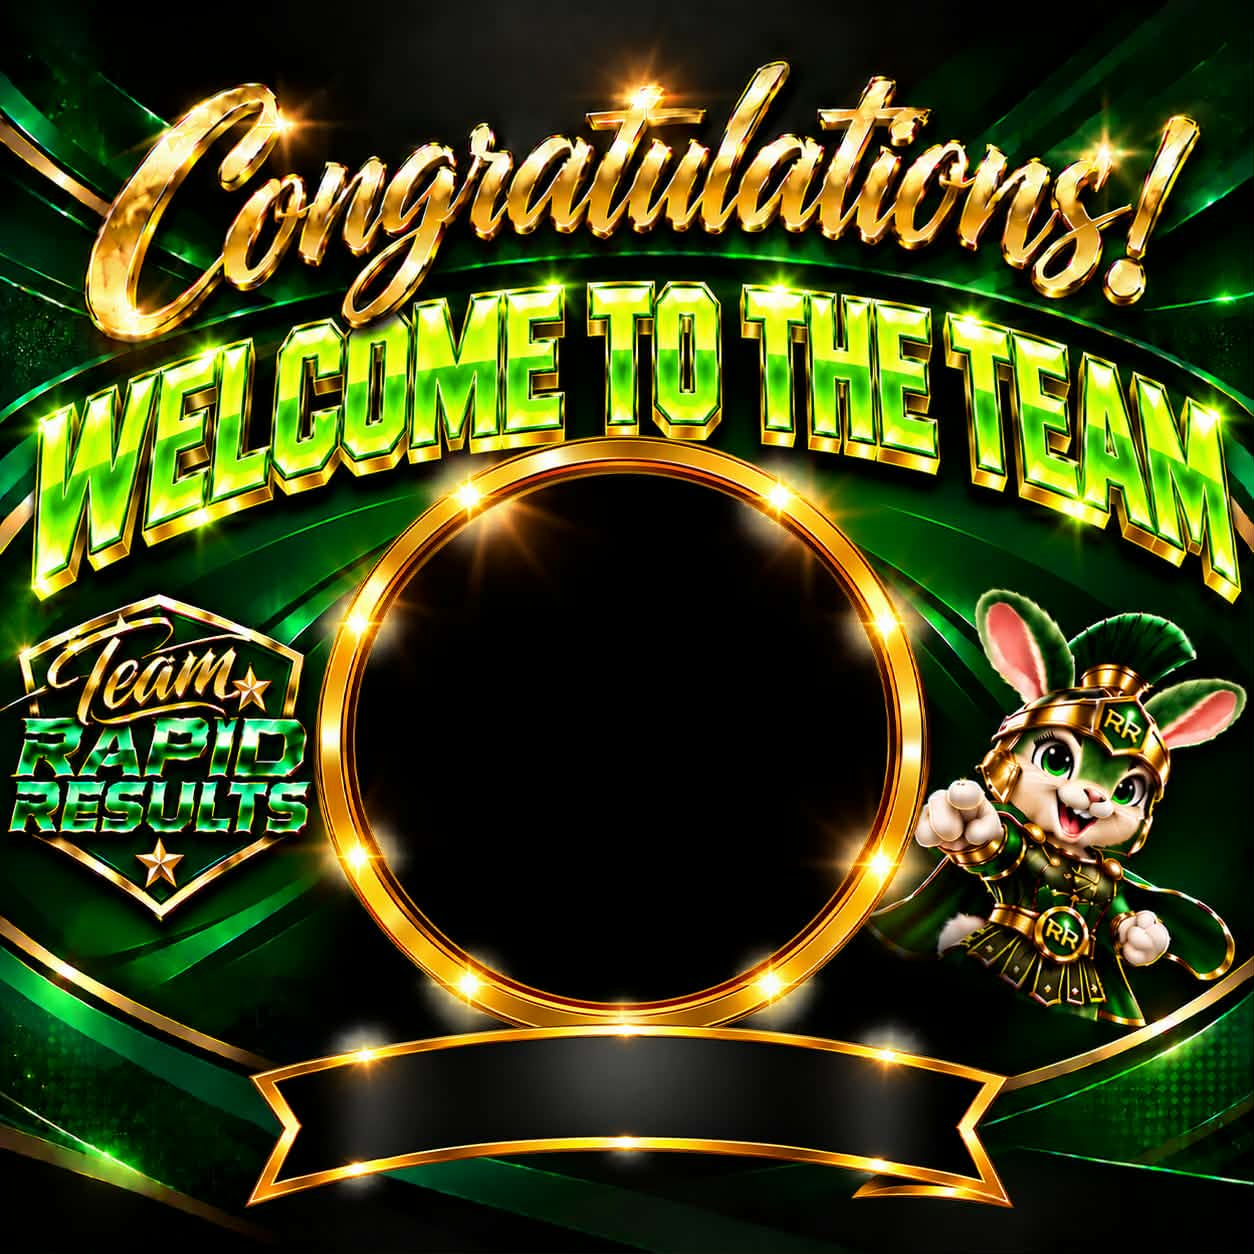
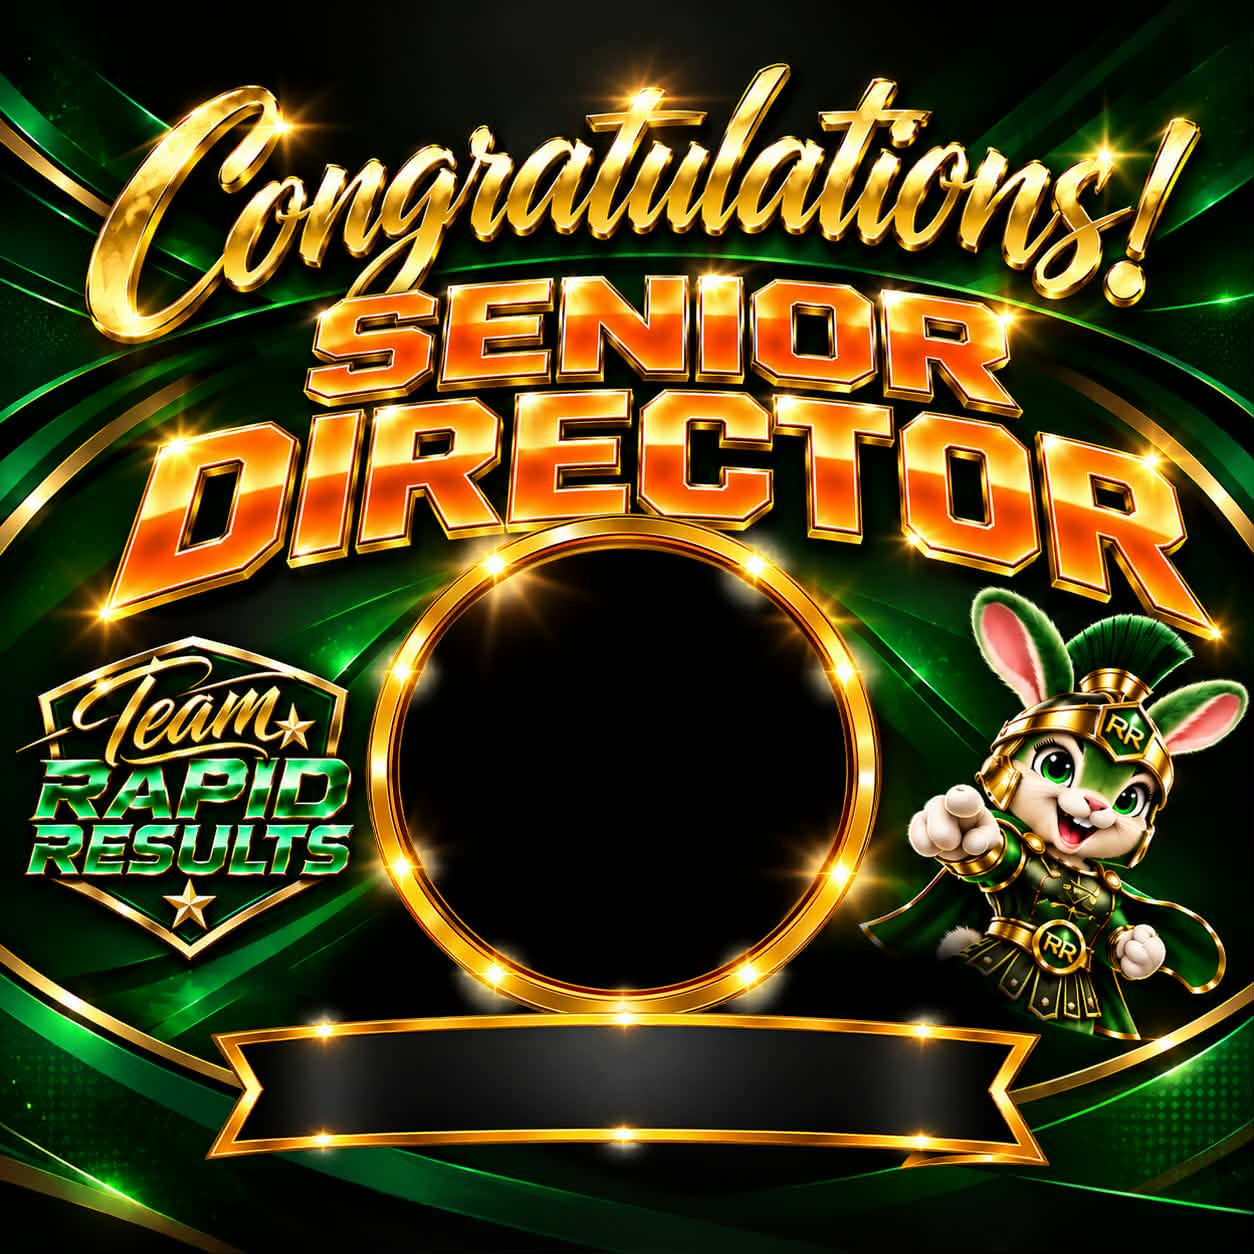
finally added 2 renewed work

diff --git a/src/App.jsx b/src/App.jsx
@@ -1,26 +1,6 @@
 import React from "react"
 import Home from "./components/pages/Home";
 import { Route, Routes } from "react-router-dom";
-import ManagingDirector from "./components/pages/ManagingDirector";
-import CorporateDirector from "./components/pages/CorporateDirector";
-import Manager from "./components/pages/Manager";
-import SeniorManager from "./components/pages/SeniorManager";
-import NationalDirector from "./components/pages/NationalDirector";
-import InternationalDirector from "./components/pages/InternationalDirector";
-import PremierDirector from "./components/pages/PremierDirector";
-import Ambassador from "./components/pages/Ambassador";
-import GoldAmbassador from "./components/pages/GoldAmbassador";
-import PlatinumAmbassador from "./components/pages/PlatinumAmbassador";
-import GlobalEnterpreneurDimond from "./components/pages/GlobalEnterpreneurDimond";
-import GlobalEnterpreneurVip from "./components/pages/GlobalEnterpreneurVip";
-import GlobalEnterpreneurTwoStar from "./components/pages/GlobalEnterpreneurTwoStar";
-import GlobalEnterpreneurOnYour from "./components/pages/GlobalEnterpreneurOnYour";
-import GlobalEnterpreneurCruise from "./components/pages/GlobalEnterpreneurCruise";
-import CorporateDirectorGreen from "./components/pages/CorporateDirectorGreen";
-import Director from "./components/pages/Director";
-import SeniorDirector from "./components/pages/SeniorDirector";
-import RockStar from "./components/pages/RockStar";
-import RegionalDirector from "./components/pages/RegionalDirector";
 import SeniorManagerPurple from "./components/pages/SeniorManagerPurple";
 import SeniorDirectorPurple from "./components/pages/SeniorDirectorPurple";
 import DiamondStatus from "./components/pages/DiamondStatus";
@@ -36,10 +16,9 @@ import NationalDirectorCyan from "./components/pages/NationalDirectorCyan";
 import DirectorGold from "./components/pages/DirectorGold";
 import InternationalDirectorGold from "./components/pages/InternationalDirectorGold";
 import VipStatus from "./components/pages/VipStatus";
-import PremierDirectorOrange from "./components/pages/PremierDirectorOrange";
-import TwoStarQualified from "./components/pages/TwoStarQualified";
 import TitaniumStatus from "./components/pages/TitaniumStatus";
-import WelcomeToTeam from "./components/pages/WelcomeToTeam";
+import PremiereDirector from "./components/pages/PremiereDirector";
+import SeniorDirector from "./components/pages/SeniorDirector";
 
 
 const App =()=>{
@@ -66,10 +45,9 @@ const App =()=>{
     <Route path="/director" element={<Director/>} />
     <Route path="/seniordirector" element={<SeniorDirector/>} />
     <Route path="/rockstar" element={<RockStar/>} /> */}
-    <Route path="/welcometoteam" element={<WelcomeToTeam/>} />
+    <Route path="/seniordirector" element={<SeniorDirector/>} />
     {/* <Route path="/regionaldirector" element={<RegionalDirector/>} /> */}
     <Route path="/seniormanagerpurple" element={<SeniorManagerPurple/>} />
-    <Route path="/seniordirectorpurple" element={<SeniorDirectorPurple/>} />
     <Route path="/diamondstatus" element={<DiamondStatus/>} />
     <Route path="/managingdirectorred" element={<ManagingDirectorRed/>} />
     <Route path="/platinumambassadorgold" element={<PlatinumAmbassadorGold/>} />
@@ -83,8 +61,7 @@ const App =()=>{
     <Route path="/directorgold" element={<DirectorGold/>} />
     <Route path="/internationaldirectorgold" element={<InternationalDirectorGold/>} />
     <Route path="/vipstatus" element={<VipStatus/>} />
-    <Route path="/premierdirectororange" element={<PremierDirectorOrange/>} />
-    <Route path="/twostarqualified" element={<TwoStarQualified/>} />
+    <Route path="/premieredirector" element={<PremiereDirector/>} />
     <Route path="/titaniumstatus" element={<TitaniumStatus/>} />
     </Routes>
     </>

diff --git a/src/components/pages/Home.jsx b/src/components/pages/Home.jsx
@@ -1,27 +1,7 @@
 import React from "react"
 import Container from "../layers/Container"
 import Cart from "../Cart"
-import photo_1 from "/1.jpg"
-import photo_2 from "/2.jpg"
-import photo_3 from "/3.jpg"
-import photo_4 from "/4.jpg"
-import photo_5 from "/5.jpg"
-import photo_6 from "/6.jpg"
-import photo_7 from "/7.jpg"
-import photo_8 from "/8.jpg"
-import photo_9 from "/9.jpg"
-import photo_10 from "/10.jpg"
-import photo_11 from "/11.jpg"
-import photo_12 from "/12.jpg"
-import photo_13 from "/13.jpg"
-import photo_14 from "/14.jpg"
-import photo_15 from "/15.jpg"
-import photo_16 from "/16.jpg"
-import photo_17 from "/17.jpg"
-import photo_18 from "/18.jpg"
-import photo_19 from "/19.jpeg"
 import photo_welcome from "/welcome.jpg"
-import photo_20 from "/20.jpeg"
 import photo_21 from "/21.jpeg"
 import photo_22 from "/22.jpeg"
 import photo_23 from "/23.jpeg"
@@ -37,7 +17,6 @@ import photo_32 from "/32.jpeg"
 import photo_33 from "/33.jpeg"
 import photo_34 from "/34.jpeg"
 import photo_35 from "/35.jpeg"
-import photo_36 from "/36.jpeg"
 import photo_37 from "/37.jpeg"
 import photo_38 from "/38.jpg"
 const Home =()=>{
@@ -65,21 +44,19 @@ const Home =()=>{
                 <Cart img={photo_14} text="Global Entrepreneur" href="/globalenterpreneuronyour"/>
                 <Cart img={photo_15} text="Global Entrepreneur" href="/globalenterpreneurcruise"/>
                 <Cart img={photo_19} text="Rockstar Award" href="/rockstar"/> */}
-                <Cart img={photo_welcome} text="Welcome To Team" href="/welcometoteam"/>
+                <Cart img={photo_welcome} text="Senior Director" href="/seniordirector"/>
                 <Cart img={photo_35} text="VIP Status" href="/vipstatus"/>
                 <Cart img={photo_23} text="Diamond Status" href="/diamondstatus"/>
-                <Cart img={photo_37} text="2-Star Qualified" href="/twostarqualified"/>
+                <Cart img={photo_37} text="Premiere Director" href="/premieredirector"/>
                 <Cart img={photo_28} text="Manager" href="/managerorange"/>
                 <Cart img={photo_21} text="Senior Manager" href="/seniormanagerpurple"/>
                 <Cart img={photo_33} text="Director" href="/directorgold"/>
-                <Cart img={photo_22} text="Senior Director" href="/seniordirectorpurple"/>
                 <Cart img={photo_24} text="Managing Director" href="/managingdirectorred"/>
                 {/* <Cart img={photo_20} text="Regional Director" href="/regionaldirector"/> */}
                 <Cart img={photo_29} text="Corporate Director" href="/corporatedirectorlime"/>
                 {/* <Cart img={photo_31} text="Executive Director" href="/executivedirector"/> */}
                 <Cart img={photo_32} text="National Director" href="/nationaldirectorcyan"/>
                 <Cart img={photo_34} text="International Director" href="/internationaldirectorgold"/>
-                <Cart img={photo_36} text="Premier Director" href="/premierdirectororange"/>
                 <Cart img={photo_30} text="Ambassador" href="/ambassadorpurple"/>
                 <Cart img={photo_26} text="Gold Ambassador" href="/goldambassadorgold"/>
                 <Cart img={photo_25} text="Platinum Ambassador" href="/platinumambassadorgold"/>

diff --git a/src/components/pages/SeniorDirector.jsx b/src/components/pages/SeniorDirector.jsx
@@ -1,12 +1,16 @@
 import React from "react";
 import Heading from "../../Heading";
-import InputBox from "../InputBox";
+import InputBox4 from "../InputBox4";
 
 const SeniorDirector = () => {
   return (
     <div>
-        <Heading text="Senior Director" className="bg-[#54FD00]"/>
-        <InputBox imgClass="bg-[url(/18.jpg)]" className="absolute top-1/2 left-1/2 translate-x-[-50%] translate-y-[-36%] block w-84 rounded-[50%]"/>
+      <Heading text="Senior Director" className="bg-[#2A9F4E] text-[#f1f1f1f1]" />
+      <InputBox4
+        imgClass="bg-[url(/welcome.jpg)]"
+        className="absolute top-1/2 left-1/2 translate-x-[-51%] translate-y-[-17%] block w-89 rounded-[50%]"
+        textClass="translate-y-[50%]"
+      />
     </div>
   );
 };

diff --git a/src/components/InputBox4.jsx b/src/components/InputBox4.jsx
@@ -178,7 +178,7 @@ const InputBox4 = ({imgClass,className,textClass}) => {
               ref={divRef}
               className={`mt-2 relative ${imgClass} bg-cover bg-no-repeat object-cover bg-center w-[1024px] h-[1024px]`}
             >
-              <p className={`w-full text-center absolute left-1/2 bottom-[14%] translate-x-[-50%] translate-y-[60%] text-[3.4rem] font-bold capitalize text-[#e7f7f4] ${textClass}`}>
+              <p className={`w-full text-center absolute left-1/2 bottom-[14%] translate-x-[-50%] text-[4rem] font-bold capitalize text-[#e7f7f4] ${textClass}`}>
                 {name}
               </p>
               <img

diff --git a/src/components/pages/PremiereDirector.jsx b/src/components/pages/PremiereDirector.jsx
@@ -1,0 +1,18 @@
+import React from "react";
+import Heading from "../../Heading";
+import InputBox4 from "../InputBox4";
+
+const PremiereDirector = () => {
+  return (
+    <div>
+      <Heading text="Premiere Director" className="bg-[#DF7B71]" />
+      <InputBox4
+            imgClass="bg-[url(/37.jpeg)]"
+        className="absolute top-1/2 left-1/2 translate-x-[-51%] translate-y-[-7%] block w-89 rounded-[50%]"
+        textClass="translate-y-[84%]"
+      />
+    </div>
+  );
+};
+
+export default PremiereDirector;
